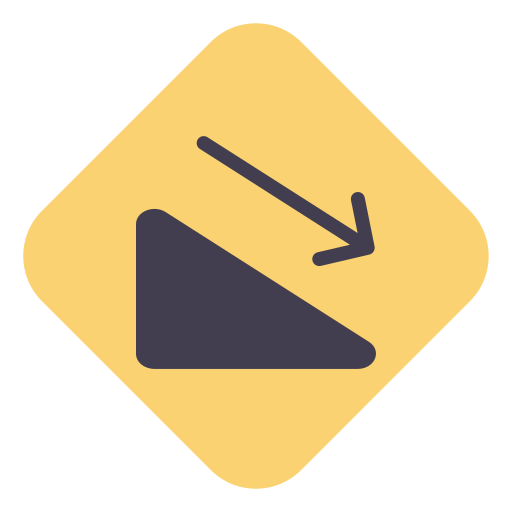
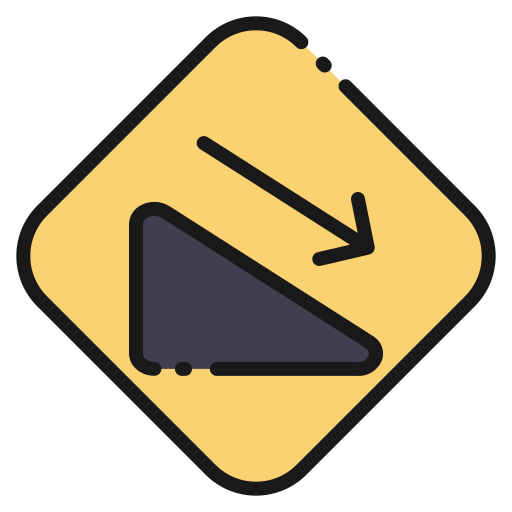
Cosmetic changes
Changed:
- icons
- fonts
Enjoy!

Changed region(s): [[0.0312, 0.0312, 0.9688, 0.9688], [0.375, 0.25, 0.75, 0.5312], [0.3438, 0.6875, 0.375, 0.75]]

diff --git a/css/preview.css b/css/preview.css
@@ -7,7 +7,7 @@ body {
 h2 {
     text-align: center;
     color: white;
-    font-family: "Comfortaa", sans-serif;
+    font-family: "Questrial", sans-serif;
 }
 
 
@@ -23,7 +23,7 @@ h2 {
 .stats-text {
     display: inline-block;
     color: white;
-    font-family: "Open Sans", sans-serif;
+    font-family: "Outfit", sans-serif;
     font-size: 28px;
     margin-bottom: 0px;
     margin-top: 4px;
@@ -37,12 +37,12 @@ h2 {
 .star-text {
     display: inline;
     color: white;
-    font-family: "Comfortaa", sans-serif;
+    font-family: "Outfit", sans-serif;
     font-size: 32px;
 }
 
 .chart-div {
-    background-color: #111;
+    background-color: #11111188;
     border-radius: 8px;
     padding: 8px;
     margin: 8px;
@@ -62,7 +62,7 @@ h2 {
 
 #map-div {
     flex: 60%;
-    background-color: #111;
+    background-color: #11111188;
     border-radius: 8px;
     padding: 8px;
     margin: 8px;
@@ -71,7 +71,7 @@ h2 {
 
 #stats-div {
     flex: 20%;
-    background-color: #111;
+    background-color: #11111188;
     border-radius: 8px;
     padding: 16px;
     margin: 8px;
@@ -79,7 +79,7 @@ h2 {
 
 #points-div {
     flex: 20%;
-    background-color: #111;
+    background-color: #11111188;
     border-radius: 8px;
     padding: 16px;
     margin: 8px;

diff --git a/preview.html b/preview.html
@@ -6,7 +6,7 @@
     <title>Bikeland</title>
     <link href="res/favicon.png" rel="icon">
     <link href="css/preview.css" rel="stylesheet">
-    <link href="https://fonts.googleapis.com/css?family=Comfortaa|Open Sans|Grape Nuts|Cantarell" rel="stylesheet">
+    <link href="https://fonts.googleapis.com/css?family=Comfortaa|Open Sans|Grape Nuts|Cantarell|Outfit|Questrial" rel="stylesheet">
     <link rel="stylesheet" href="https://cdnjs.cloudflare.com/ajax/libs/leaflet/1.7.1/leaflet.css" />
     <script src="https://cdn.jsdelivr.net/npm/chart.js"></script>
     <script src="https://ajax.googleapis.com/ajax/libs/jquery/3.5.1/jquery.min.js"></script>
